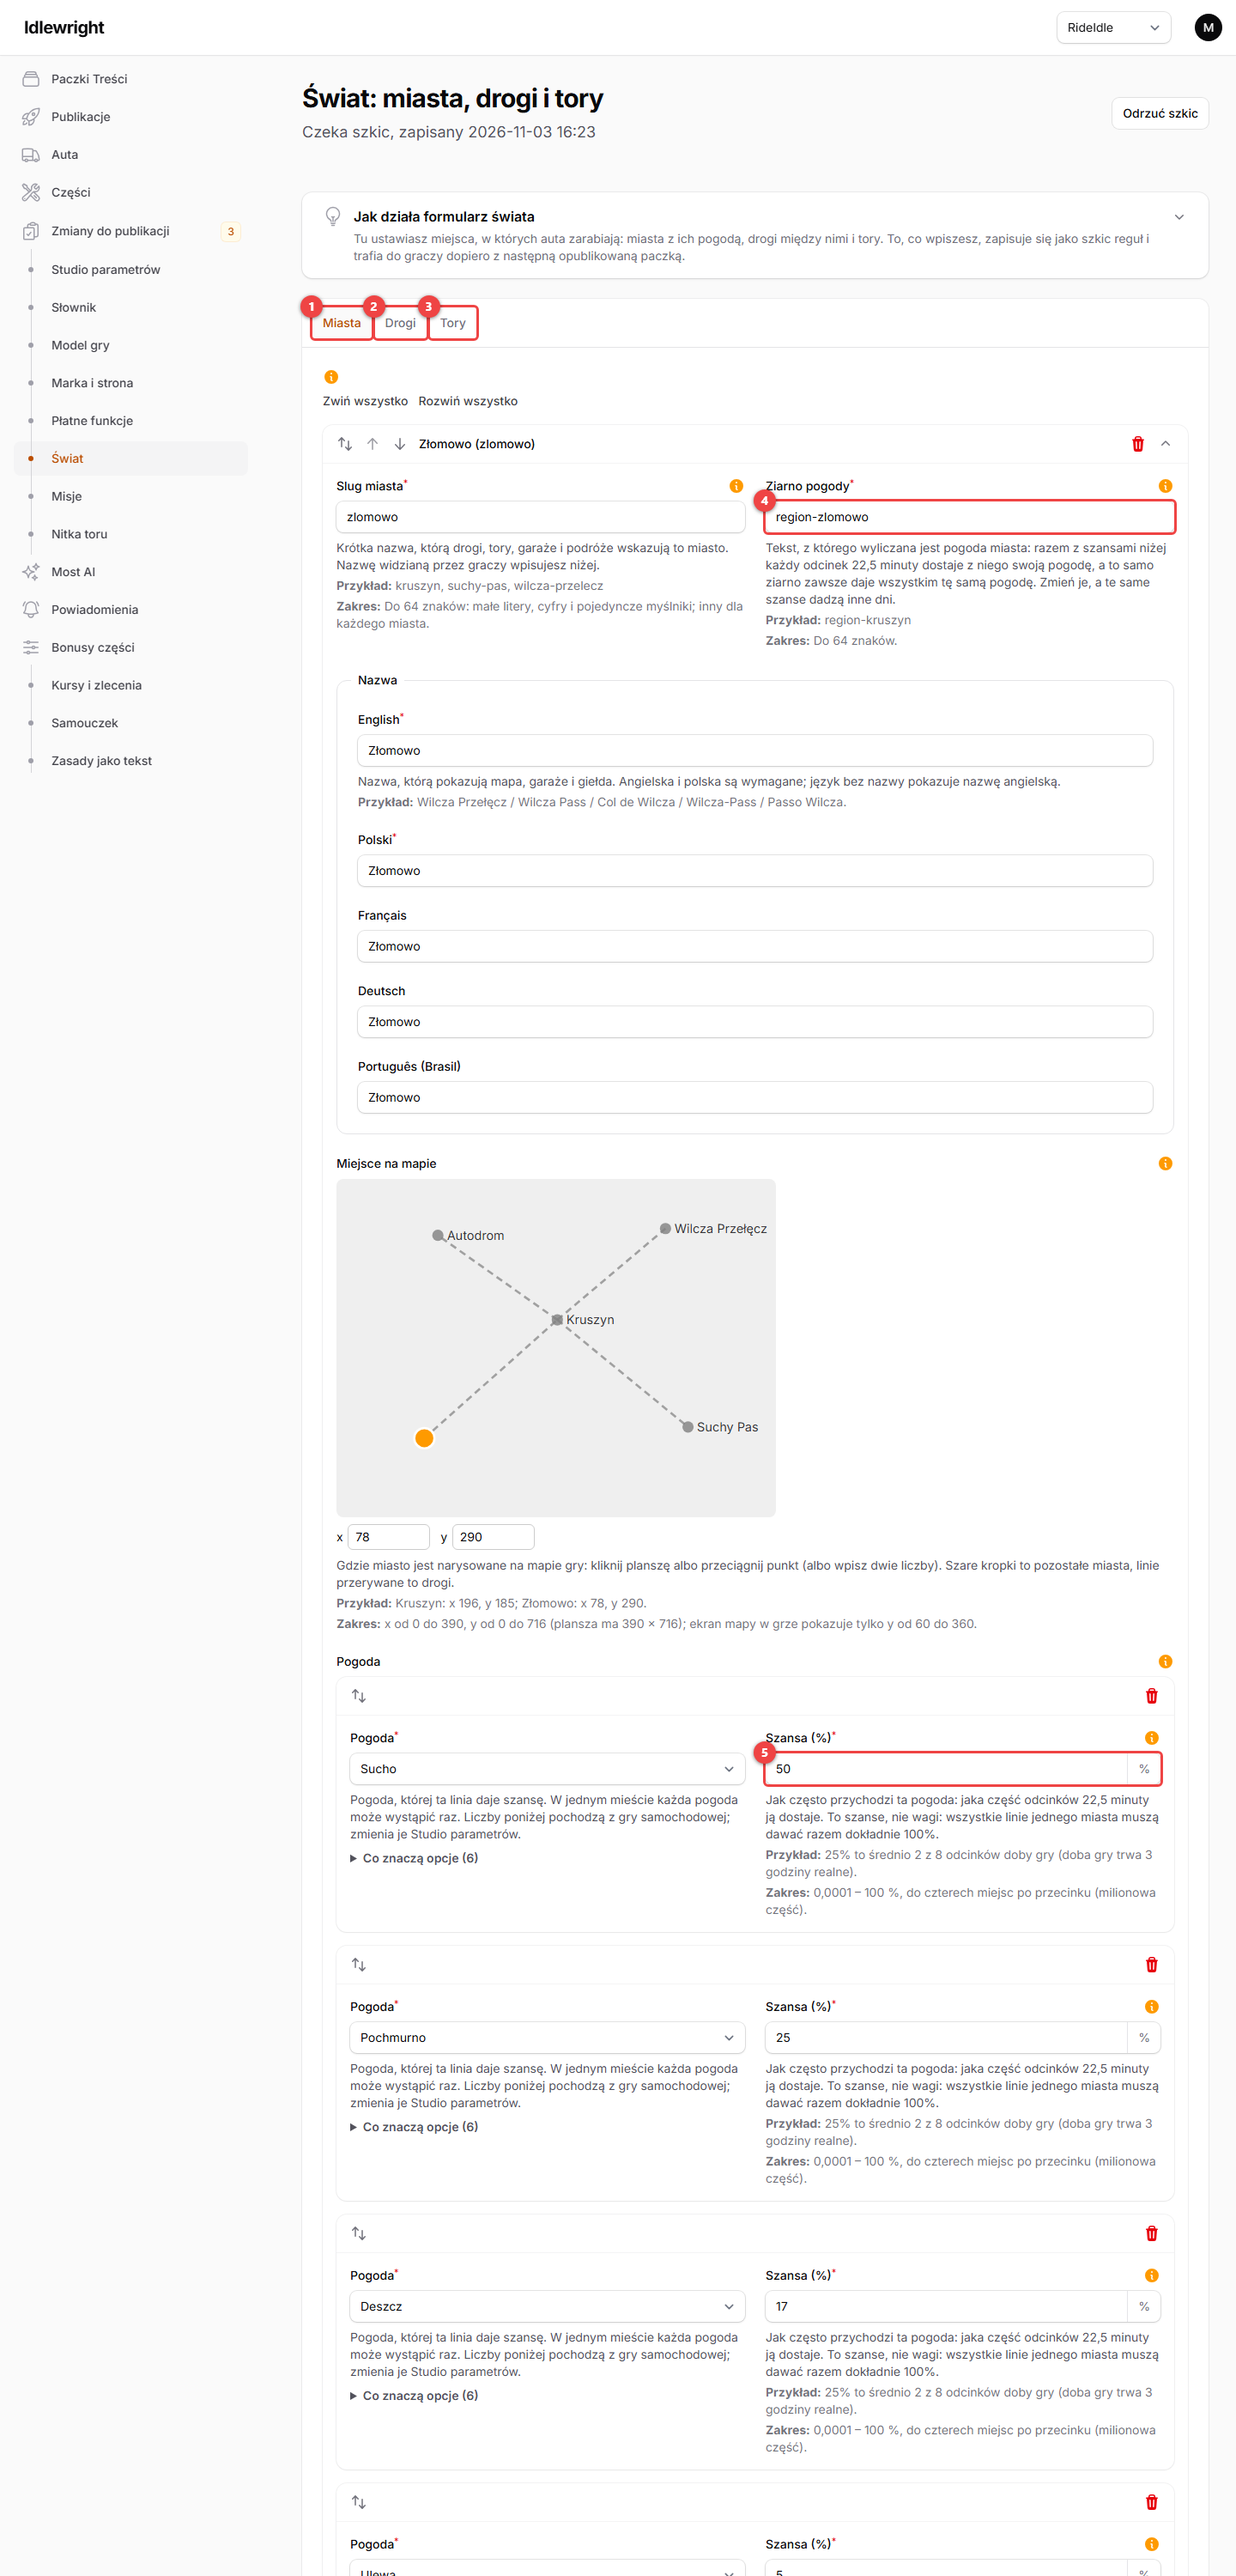
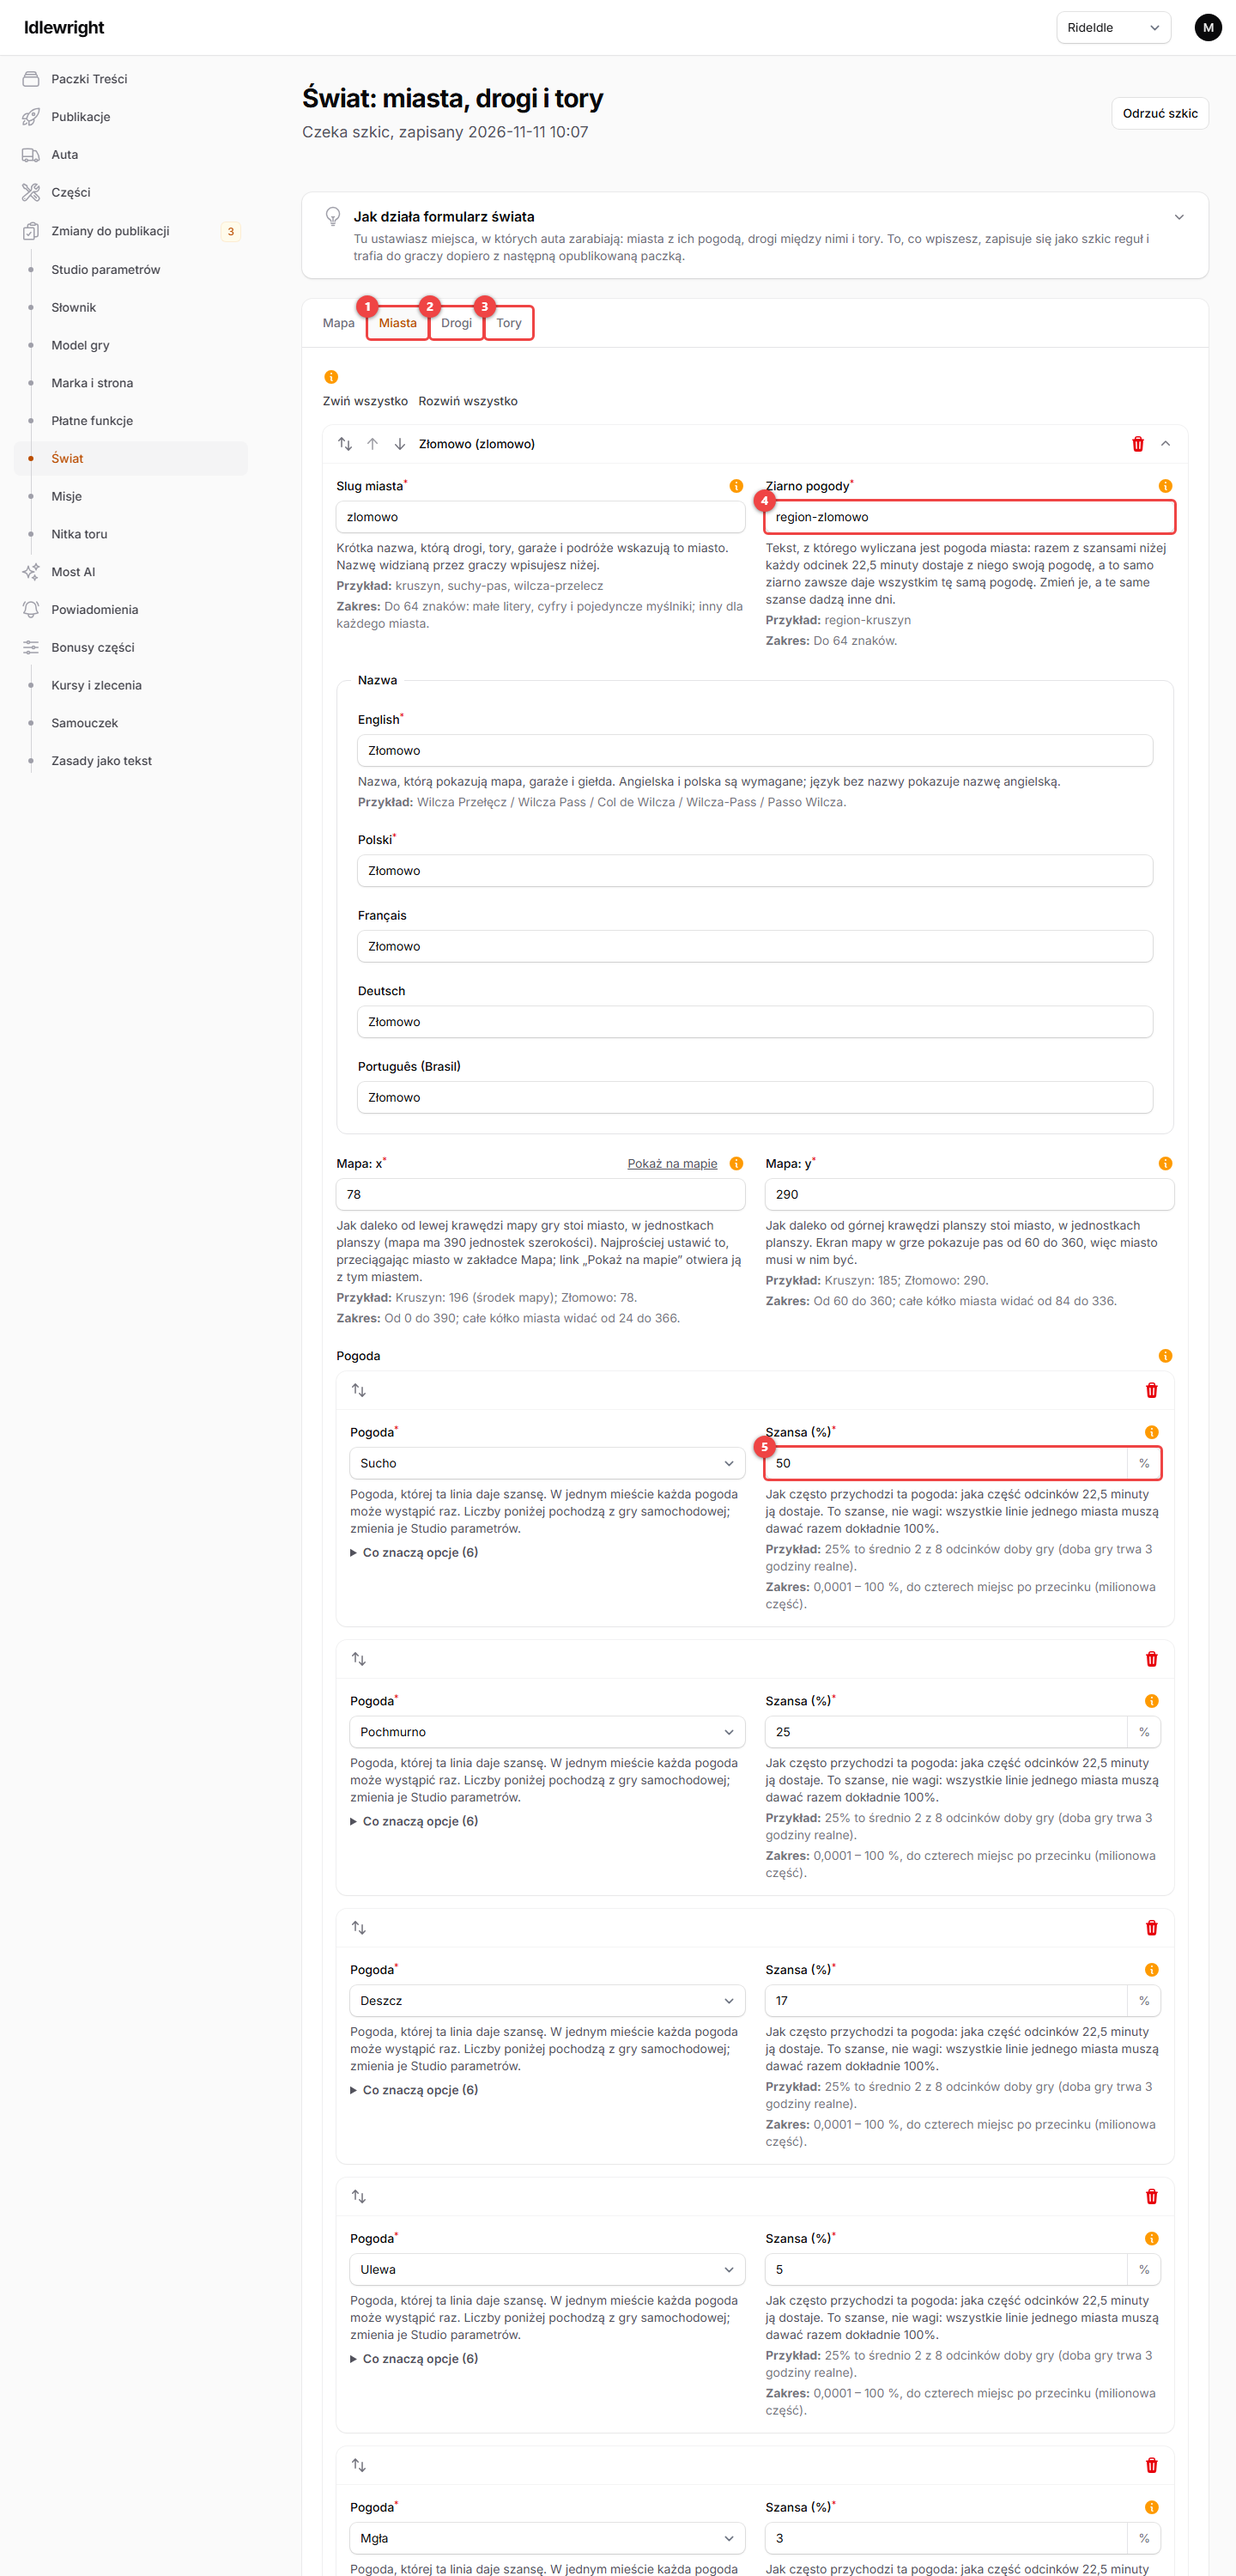
docs: the map of the world in the guide of the form and in the manual, and the name of a table among the changes
The guide of the world form starts with the tab of the map, the manual has a
section on it with a new screen (swiat-mapa) and the cities screen opens its tab
first, and the page of the changes to publish names a table in words instead of
showing the key of its text (admin.pending.kind.table, five languages).

diff --git a/api/lang/fr/help/guide.forms-world-game.php b/api/lang/fr/help/guide.forms-world-game.php
@@ -6,6 +6,7 @@ return [
             'label' => 'Comment fonctionne le formulaire du monde',
             'help' => 'Vous réglez ici les lieux où les voitures gagnent : les villes avec leur météo, les routes qui les relient et les circuits. Ce que vous saisissez est enregistré en brouillon des règles et n’atteint les joueurs qu’avec le prochain pack publié.',
             'steps' => [
+                'Onglet Carte : voyez la carte comme la verra un joueur ; faites glisser les villes à leur place, reliez-les par des routes en cliquant et corrigez ce que signalent les remarques sous la carte. Aucune ville n’a besoin d’être au centre.',
                 'Onglet Villes : ajoutez une ville avec un slug, des noms dans les langues, une place sur la carte et les chances de sa météo (100% en tout).',
                 'Onglet Routes : reliez les villes par des routes et donnez leur longueur en km ; chaque ville doit être atteignable depuis la première.',
                 'Onglet Circuits : ajoutez un circuit dans une ville : revêtement, genre, niveau, longueur du tour, tour de référence, carburant, gain et XP.',

diff --git a/api/lang/de/help/guide.forms-world-game.php b/api/lang/de/help/guide.forms-world-game.php
@@ -6,6 +6,7 @@ return [
             'label' => 'So funktioniert das Formular der Welt',
             'help' => 'Hier stellst du die Orte ein, an denen Autos verdienen: Städte mit ihrem Wetter, die Straßen dazwischen und die Strecken. Was du eingibst, wird als Entwurf der Regeln gespeichert und erreicht die Spieler erst mit dem nächsten veröffentlichten Paket.',
             'steps' => [
+                'Tab Karte: Sieh die Karte so, wie ein Spieler sie sehen wird; ziehe die Städte an ihren Platz, verbinde sie per Klick mit Straßen und behebe, was die Hinweise unter der Karte zeigen. Keine Stadt muss die Mitte sein.',
                 'Tab Städte: Füge eine Stadt mit Slug, Namen in den Sprachen, einem Ort auf der Karte und den Chancen ihres Wetters hinzu (zusammen 100%).',
                 'Tab Straßen: Verbinde die Städte mit Straßen und gib ihre Länge in km an; jede Stadt muss von der ersten aus erreichbar sein.',
                 'Tab Strecken: Füge eine Strecke in einer Stadt hinzu: Untergrund, Art, Stufe, Rundenlänge, Referenzrunde, Kraftstoff, Verdienst und XP.',

diff --git a/api/lang/pt_BR/help/guide.forms-world-game.php b/api/lang/pt_BR/help/guide.forms-world-game.php
@@ -6,6 +6,7 @@ return [
             'label' => 'Como funciona o formulário do mundo',
             'help' => 'Aqui você define os lugares em que os carros ganham dinheiro: cidades com o seu clima, as estradas entre elas e as pistas. O que você digita é salvo como rascunho das regras e só chega aos jogadores com o próximo pacote publicado.',
             'steps' => [
+                'Aba Mapa: veja o mapa como o jogador o verá; arraste as cidades para o lugar, ligue-as por estradas com cliques e corrija o que as observações sob o mapa apontam. Nenhuma cidade precisa ser o centro.',
                 'Aba Cidades: acrescente uma cidade com slug, nomes nos idiomas, um lugar no mapa e as chances do seu clima (somando 100%).',
                 'Aba Estradas: ligue as cidades por estradas e informe a extensão em km; toda cidade deve ser alcançável a partir da primeira.',
                 'Aba Pistas: acrescente uma pista numa cidade: piso, tipo, nível, extensão da volta, volta de referência, combustível, prêmio e XP.',

diff --git a/api/lang/pl/help/guide.forms-world-game.php b/api/lang/pl/help/guide.forms-world-game.php
@@ -6,6 +6,7 @@ return [
             'label' => 'Jak działa formularz świata',
             'help' => 'Tu ustawiasz miejsca, w których auta zarabiają: miasta z ich pogodą, drogi między nimi i tory. To, co wpiszesz, zapisuje się jako szkic reguł i trafia do graczy dopiero z następną opublikowaną paczką.',
             'steps' => [
+                'Zakładka Mapa: zobacz mapę tak, jak zobaczy ją gracz; przeciągnij miasta na ich miejsca, połącz je drogami kliknięciami i popraw to, co pokazują uwagi pod mapą. Żadne miasto nie musi być środkiem.',
                 'Zakładka Miasta: dodaj miasto ze slugiem, nazwami w językach, miejscem na mapie i szansami pogody (razem 100%).',
                 'Zakładka Drogi: połącz miasta drogami i podaj ich długość w km; od pierwszego miasta musi dać się dojechać do każdego.',
                 'Zakładka Tory: dodaj tor w mieście: nawierzchnia, rodzaj, poziom, długość okrążenia, okrążenie wzorcowe, paliwo, wypłata i XP.',

diff --git a/api/lang/en/help/guide.forms-world-game.php b/api/lang/en/help/guide.forms-world-game.php
@@ -6,6 +6,7 @@ return [
             'label' => 'How the world form works',
             'help' => 'Here you set the places where cars earn: cities with their weather, the roads between them and the tracks. What you enter is saved as a draft of the rules and reaches players only with the next published pack.',
             'steps' => [
+                'Tab Map: see the map as a player will; drag the cities to their places, join them with roads by clicking and fix what the notes under the map point out. No city has to be the middle.',
                 'Tab Cities: add a city with a slug, names in the languages, a place on the map and the chances of its weather (100% in all).',
                 'Tab Roads: join the cities with roads and give their length in km; every city must be reachable from the first one.',
                 'Tab Tracks: add a track in a city: surface, kind, level, lap length, reference lap, fuel, reward and XP.',

diff --git a/api/tests/Feature/Admin/PendingChangesTest.php b/api/tests/Feature/Admin/PendingChangesTest.php
@@ -218,6 +218,18 @@ describe('the page', function () {
             ->assertSee('Przejdź do publikacji');
     });
 
+    it('names a table with a draft by its kind in words, not by the key of the text', function () {
+        signedInAdmin();
+        // A table is not edited in the panel: its drafts come from content:rebase, which writes them as this does.
+        $table = pendingDefinition('table', 'luck-ppm');
+        $table->forceFill(['draft' => $table->latestVersion->document, 'draft_saved_at' => now()])->save();
+
+        $this->get(PendingChangesPage::getUrl())->assertOk()
+            ->assertSee('data-slug="luck-ppm"', false)
+            ->assertSee(__('admin.pending.kind.table'))
+            ->assertDontSee('admin.pending.kind.table');
+    });
+
     it('is for any admin to read, an editor too', function () {
         signedInAdmin(Admin::ROLE_EDITOR);
 

diff --git a/api/lang/fr/admin.php b/api/lang/fr/admin.php
@@ -1032,6 +1032,7 @@ return [
             'vehicle' => 'Voiture',
             'part' => 'Pièce',
             'rules' => 'Règles',
+            'table' => 'Table',
         ],
         'state' => [
             'new' => 'nouvelle',

diff --git a/api/lang/pl/admin.php b/api/lang/pl/admin.php
@@ -1068,6 +1068,7 @@ return [
             'vehicle' => 'Auto',
             'part' => 'Część',
             'rules' => 'Reguły',
+            'table' => 'Tabela',
         ],
         'state' => [
             'new' => 'nowa',

diff --git a/api/lang/pt_BR/admin.php b/api/lang/pt_BR/admin.php
@@ -1032,6 +1032,7 @@ return [
             'vehicle' => 'Carro',
             'part' => 'Peça',
             'rules' => 'Regras',
+            'table' => 'Tabela',
         ],
         'state' => [
             'new' => 'nova',

diff --git a/api/lang/de/admin.php b/api/lang/de/admin.php
@@ -1032,6 +1032,7 @@ return [
             'vehicle' => 'Auto',
             'part' => 'Teil',
             'rules' => 'Regeln',
+            'table' => 'Tabelle',
         ],
         'state' => [
             'new' => 'neu',

diff --git a/api/lang/en/admin.php b/api/lang/en/admin.php
@@ -1068,6 +1068,7 @@ return [
             'vehicle' => 'Car',
             'part' => 'Part',
             'rules' => 'Rules',
+            'table' => 'Table',
         ],
         'state' => [
             'new' => 'new',

diff --git a/docs/podrecznik-panelu.md b/docs/podrecznik-panelu.md
@@ -327,11 +327,26 @@ Menu Treść → Podgląd części. Wybierz część, auto testowe i rzadkość 
 
 **Cel:** ustawić miasta, drogi między nimi i tory, na których gracze zarabiają.
 
-Menu Treść → Świat. Strona ma zakładki **Miasta**, **Drogi** i **Tory**. Kolejność pozycji zmienia się strzałkami przy każdej z nich.
+Menu Treść → Świat. Strona ma zakładki **Mapa**, **Miasta**, **Drogi** i **Tory**. Kolejność pozycji zmienia się strzałkami przy każdej z nich.
+
+### Mapa
+
+Zakładka **Mapa** pokazuje świat tak, jak gracz zobaczy go na ekranie mapy w telefonie: kółka miast z ikoną (dom w mieście startowym, kłódka tam, gdzie potrzebny jest poziom wyższy niż 1), pod nimi nazwę i linię „LV n+ · nawierzchnia” oraz drogi. Przerywana ramka to pas, w którym całe kółko miasta mieści się na ekranie. Długość nowej drogi panel podpowiada ze skali mapy (mediana „km na jednostkę” istniejących dróg). Drogi mogą tworzyć łańcuch, pętlę albo dowolną sieć, a auto jedzie najkrótszą trasą. Miejsca, których dotyczą uwagi, są obwiedzione na pomarańczowo, a miasto bez dojazdu na czerwono: takiego szkicu nie da się zapisać.
+
+![Świat: mapa](img/podrecznik-swiat-mapa.png)
+
+<!-- legenda:swiat-mapa -->
+1. **Mapa.** Świat tak, jak gracz widzi go na telefonie: miasta przeciąga się, a drogę rysuje kliknięciem dwóch miast.
+2. **Miasto.** Chwyć kółko i upuść w nowym miejscu; kliknięcie wybiera miasto (pod mapą pojawiają się jego x i y), a kliknięcie drugiego miasta rysuje drogę z długością podpowiedzianą ze skali mapy.
+3. **Droga.** Kliknij drogę, żeby zmienić jej długość albo ją usunąć; żadne miasto nie musi być środkiem.
+4. **Uwagi do mapy.** Co gracz odczyta źle: miasto ucięte przez krawędź, miasta albo nazwy na sobie, droga przez miasto, którego nie łączy, drogi przecinające się poza miastem; na czerwono miasto bez dojazdu z miasta startowego.
+<!-- /legenda -->
+
+Zmiany z mapy zachowuje przycisk „Zapisz szkic”, jak wszystkie inne na tej stronie. Gra rysuje mapę tak samo: nazwę przy krawędzi przesuwa do środka, przy dolnej krawędzi stawia ją nad kółkiem, a auto w podróży jedzie po drogach przez miasta pośrednie.
 
 ### Miasta i drogi
 
-Miasto ma własną pogodę (szanse wpisuje się w **procentach**), garaże, warsztat i rynek, co najmniej jeden tor i punkt na mapie, który klika się i przeciąga. Miasto otwiera się graczowi na poziomie swojego najłatwiejszego toru. Droga łączy dwa miasta i ma długość w kilometrach.
+Miasto ma własną pogodę (szanse wpisuje się w **procentach**), garaże, warsztat i rynek, co najmniej jeden tor i miejsce na mapie (x i y, najwygodniej ustawiane w zakładce Mapa, do której prowadzi link „Pokaż na mapie”). Miasto otwiera się graczowi na poziomie swojego najłatwiejszego toru. Droga łączy dwa miasta i ma długość w kilometrach.
 
 ![Świat: miasta](img/podrecznik-swiat-miasta.png)
 
